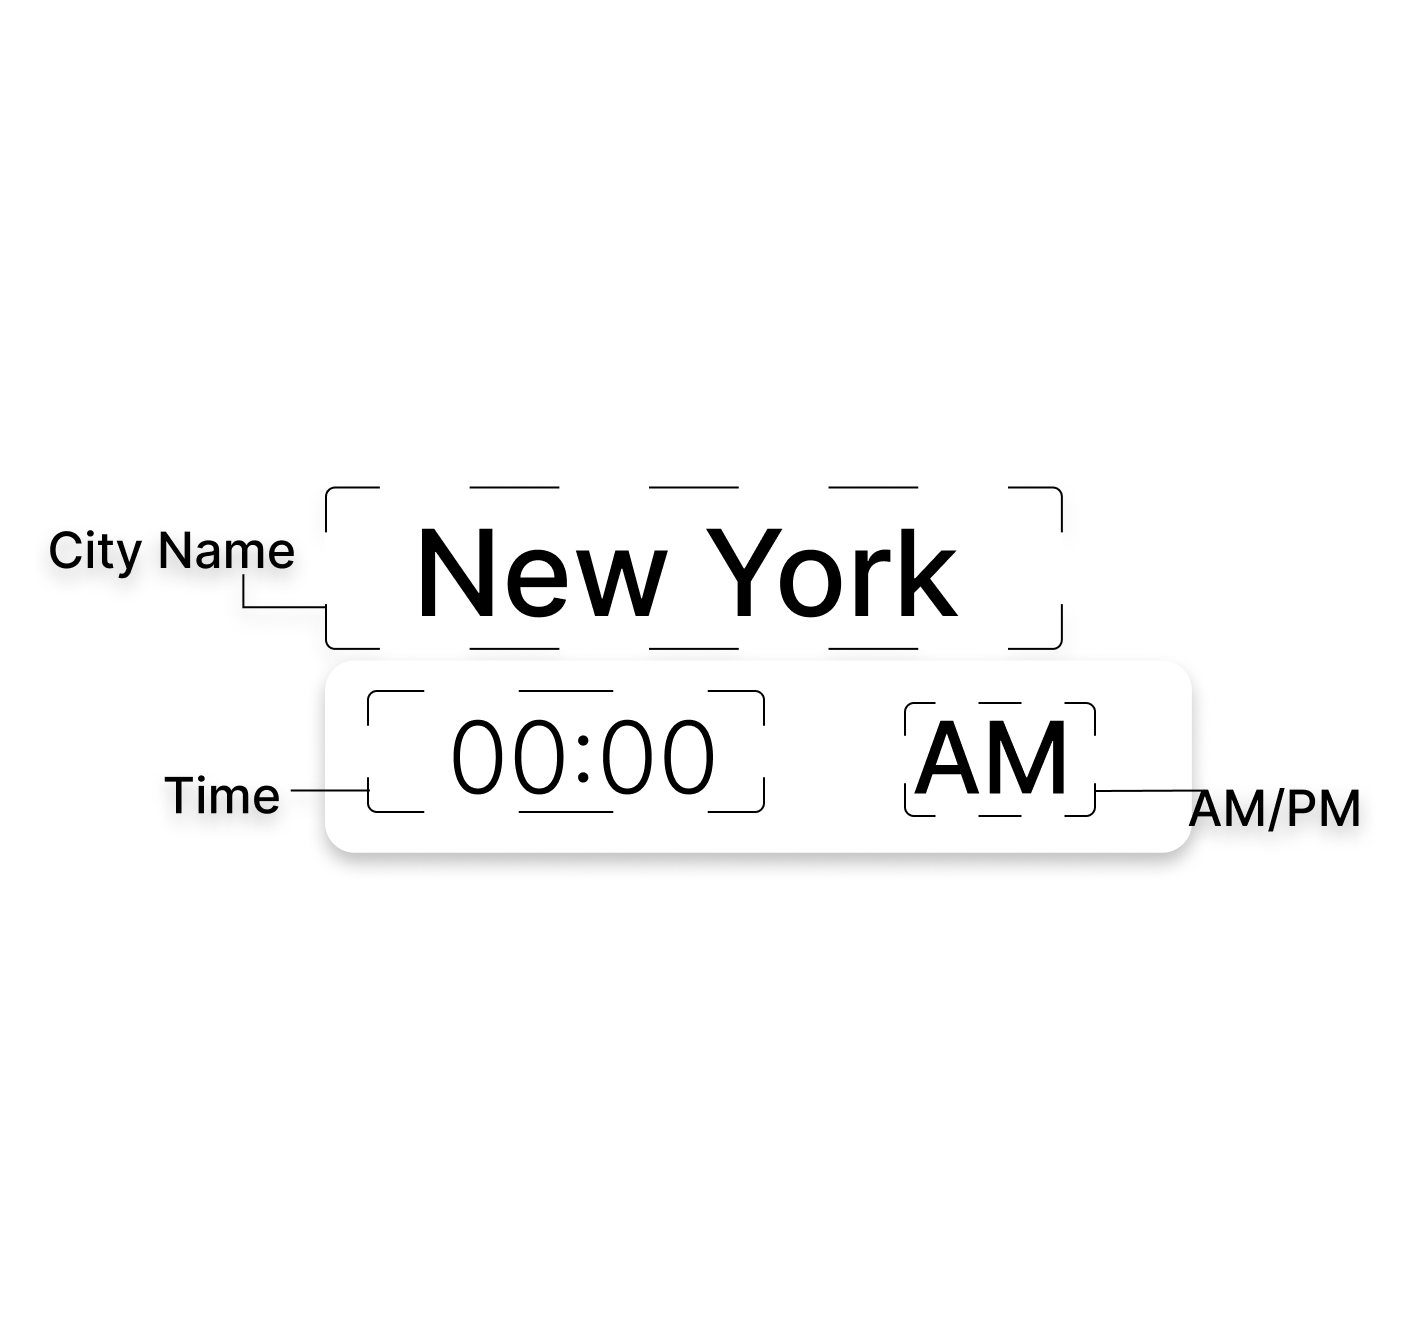
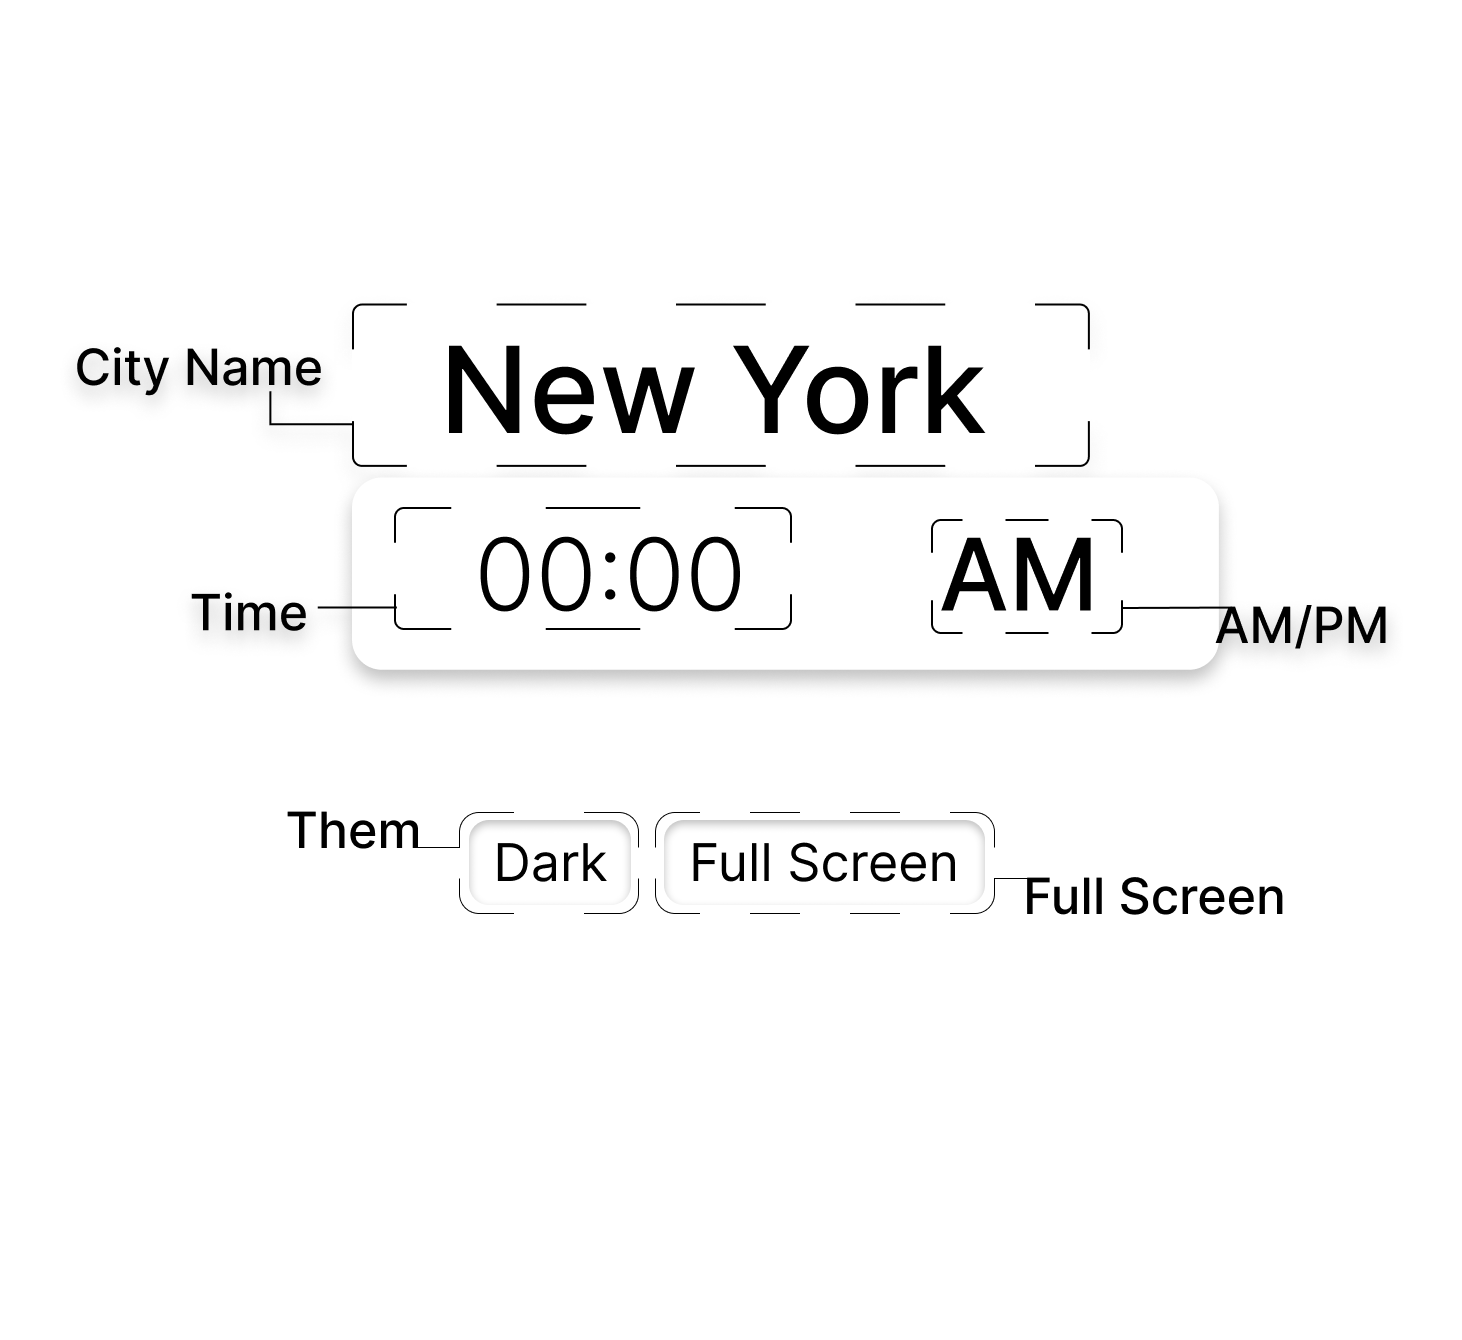
Clocko half finished

diff --git a/app/clocko/page.tsx b/app/clocko/page.tsx
@@ -17,47 +17,69 @@ export default function Page() {
        <ParallaxImage src={cw} alt="Clock Light" cap="Light"/>
        <ParallaxImage src={cd} alt="Clock Dark" cap="Dark"/>
       </div>
-      <div className="">
-        <h1 className="text-5xl font-work">Process</h1>
+      <p className="px-16 text-2xl font-medium">
+        I used to use a clock while studying, especially when I learned React.js. 
+        Then I thought, "Why not create a meaningful project?". 
+        Many of us have created business cards, profile cards, 
+        and even some clones of popular applications while learning. 
+        While I did the same, I worked on this project while learning React. 
+        It incorporates all the concepts like props, components, hooks, and 
+        conditional rendering with a special touch of Tailwind CSS.
+      </p>
+      <div className="p-16">
+        <h1 className="text-5xl font-work">About</h1>
         <div className="p-10 flex items-center">
           <Image className="p-10" src={"/Hours.png"} width={800} height={500} alt="Hours" />
-          <div className="">
+          <div className="py-10 px-6 rounded-[3rem] border-r-2 border-b-2 border-black/30">
             <h1 className="text-3xl font-medium font-inter">Hours</h1>
-            <p className="text-xl font-inter font-light">about hour</p>
+            <p className="text-xl font-inter font-light text-balance">The time is displayed in a 24-hour format, which has the constructive advantage of quickly capturing users' attention by using big and bold hours.</p>
             <h1 className="text-3xl font-medium font-inter">Seconds</h1>
-            <p className="text-xl font-inter font-light">about hour</p>
+            <p className="text-xl font-inter font-light text-balance">Seconds is a critical component requiring rendering at very brief intervals.</p>
             <h1 className="text-3xl font-medium font-inter">AM/PM</h1>
-            <p className="text-xl font-inter font-light">about hour</p>
+            <p className="text-xl font-inter font-light text-balance">The 24-hour format is used, but having an AM/PM indicator can greatly help users quickly determine whether it is morning or afternoon, especially during scheduled meetings or when involved in lengthy projects.</p>
+            <h1 className="mt-10 text-3xl font-medium font-inter">Learnings</h1>
+            <p className="text-xl font-inter font-light text-balance">The components are all in the Hours.JSX file. Rendering the hours and the am/pm indicator is quite easy, but rendering the seconds is a task that requires deeper thought. Using a timeout can work, 
+              but it creates unnecessary app glitches that can affect the user experience. 
+              However, React provides us useEffect, which makes it behave exactly as it should.
+            </p>
           </div>
         </div>
-        <div className="p-10 flex">
+        <div className="p-10 flex items-center">
           <Image className="p-10" src={"/Minutes.png"} width={800} height={500} alt="Hours" />
-          <div className="">
-            <h1 className="">Minutes</h1>
-            <p className="">about hour</p>
-            <h1 className="">Day</h1>
-            <p className="">about hour</p>
-            <h1 className="">Date</h1>
-            <p className="">about hour</p>
+          <div className="py-10 px-6 rounded-[3rem] border-r-2 border-b-2 border-black/30">
+            <h1 className="text-3xl font-medium font-inter">Minutes</h1>
+            <p className="text-xl font-inter font-light text-balance">Second challenging component after seconds. All the understanding and knowledge of developing it and the challenges while solving it came in handy to make this component quickly.</p>
+            <h1 className="text-3xl font-medium font-inter">Day</h1>
+            <p className="text-xl font-inter font-light text-balance">
+            It ensures you don't miss your weekend, one of the simplest to include. While full names for days could be used, this approach adds a unique element to the application.</p>
+            <h1 className="text-3xl font-medium font-inter">Date</h1>
+            <p className="text-xl font-inter font-light text-balance">Maintaining the date in this manner is more meaningful than adhering to the conventional format. Presenting the date without the inclusion of the month and year offers a more concise and precise representation.</p>
+            <h1 className="mt-10 text-3xl font-medium font-inter">Learnings</h1>
+            <p className="text-xl font-inter font-light text-balance">In this context, the emphasis lay in selecting the most suitable aesthetic for the application, while the developmental approaches remained consistent with earlier components. By delineating the day and date in a manner that distinguishes it, the website can be rendered more streamlined.
+            </p>
           </div>
         </div>
-        <div className="p-10 flex">
+        <div className="p-10 flex items-center">
           <Image className="p-10" src={"/City.png"} width={800} height={500} alt="Hours" />
-          <div className="p-10">
-            <h1 className="">City Name</h1>
-            <p className="">about hour</p>
-            <h1 className="">Time</h1>
-            <p className="">about hour</p>
-            <h1 className="">AM/PM</h1>
-            <p className="">about hour</p>
+          <div className="py-10 px-6 rounded-[3rem] border-r-2 border-b-2 border-black/30">
+            <h1 className="text-3xl font-medium font-inter">City Name</h1>
+            <p className="text-xl font-inter font-light text-balance">The system can display the local time based on the user's specified city and its offset to Coordinated Universal Time (UTC). Users can input any city of their choice, and all corresponding information will be promptly displayed upon integration into the code.</p>
+            <h1 className="text-3xl font-medium font-inter">Time</h1>
+            <p className="text-xl font-inter font-light text-balance">As a user can add any time, the web has all the information available on simple search. Therefore, they can get the UTC offset, and minor changes in the code will display the correct time.</p>
+            <h1 className="text-3xl font-medium font-inter">AM/PM</h1>
+            <p className="text-xl font-inter font-light text-balance">The 24-hour format is used, but having an AM/PM indicator can greatly help users.This is particularly beneficial when navigating scheduled meetings in different time zones or when engaged in extensive projects.</p>
+            <h1 className="text-3xl font-medium font-inter">Theme</h1>
+            <p className="text-xl font-inter font-light text-balance">The theme feature offers users the ability to customize their visual presentation by selecting a dark or light mode. Given the current preference for dark themes among users, providing this option is advantageous.</p>
+            <h1 className="text-3xl font-medium font-inter">Full Screen</h1>
+            <p className="text-xl font-inter font-light text-balance">Utilizing a full-screen display allows users to maximize the available display area. This feature can serve as a screensaver, providing a visual indication of the passage of time.</p>
+            <h1 className="mt-10 text-3xl font-medium font-inter">Learnings</h1>
+            <p className="text-xl font-inter font-light text-balance">The interface of this application is notable for its full-screen display and dark theme. Furthermore, the implementation of time display for various cities requires careful consideration, as it involves adjusting the UTC offset to accurately reflect the time difference. The theme feature allows users to personalize their preferred visual presentation, whether opting for a dark or light mode. With a full-screen display, users can maximize their utilization of the available screen space.</p>
           </div>
         </div>
       </div>
-      <div className="">
-        <h1 className="text-5xl font-work">How</h1>
-      </div>
-      <div className="">
-        <h1 className="text-5xl font-work">Learnt</h1>
+      <div className="p-16 flex flex-wrap">
+        <Link href="https://github.com/YUGE0/Clock">Github Repository</Link>
+        <Link href="https://cl0cko.vercel.app/">Visit Live</Link>
       </div>
     </div>
   )

diff --git a/app/page.tsx b/app/page.tsx
@@ -26,7 +26,7 @@ export default function Home() {
         <h1 className="text-5xl font-work">My Work</h1>
         {projects.map((project) => (<Work key={index} project={project} />))}
       </div>
-      <div>
+      <div className="p-20">
         <h1 className="text-5xl font-work">My Skills</h1>
       </div>
     </div>
